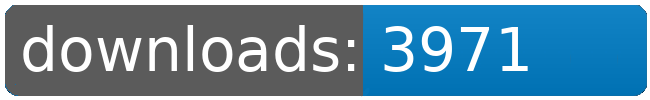
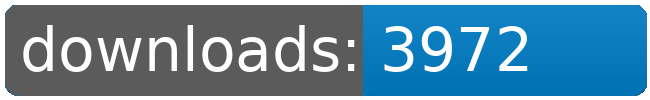
dl log written

Changed region(s): [[0.7692, 0.24, 0.8308, 0.69]]

diff --git a/README.md b/README.md
@@ -21,8 +21,8 @@
 		<td>3907</td>
 		<td>3930</td>
 		<td>3955</td>
-		<td>3971</td>
-		<td>+ 16</td>
+		<td>3972</td>
+		<td>+ 17</td>
 	</tr>
 	<tr>
 		<td>Factory.Outlets</td>
@@ -109,8 +109,8 @@
 		<td></td>
 		<td></td>
 		<td></td>
-		<td>32921</td>
-		<td>138</td>
+		<td>32922</td>
+		<td>139</td>
 	</tr>
 </table>
 </sub></sup>
@@ -168,8 +168,8 @@
 		<td>3907</td>
 		<td>3930</td>
 		<td>3955</td>
-		<td>3971</td>
-		<td>+ 16</td>
+		<td>3972</td>
+		<td>+ 17</td>
 	</tr>
 	<tr>
 		<td>Solar.Sails</td>
@@ -223,8 +223,8 @@
 		<td></td>
 		<td></td>
 		<td></td>
-		<td>32921</td>
-		<td>138</td>
+		<td>32922</td>
+		<td>139</td>
 	</tr>
 </table>
 </sub></sup>
